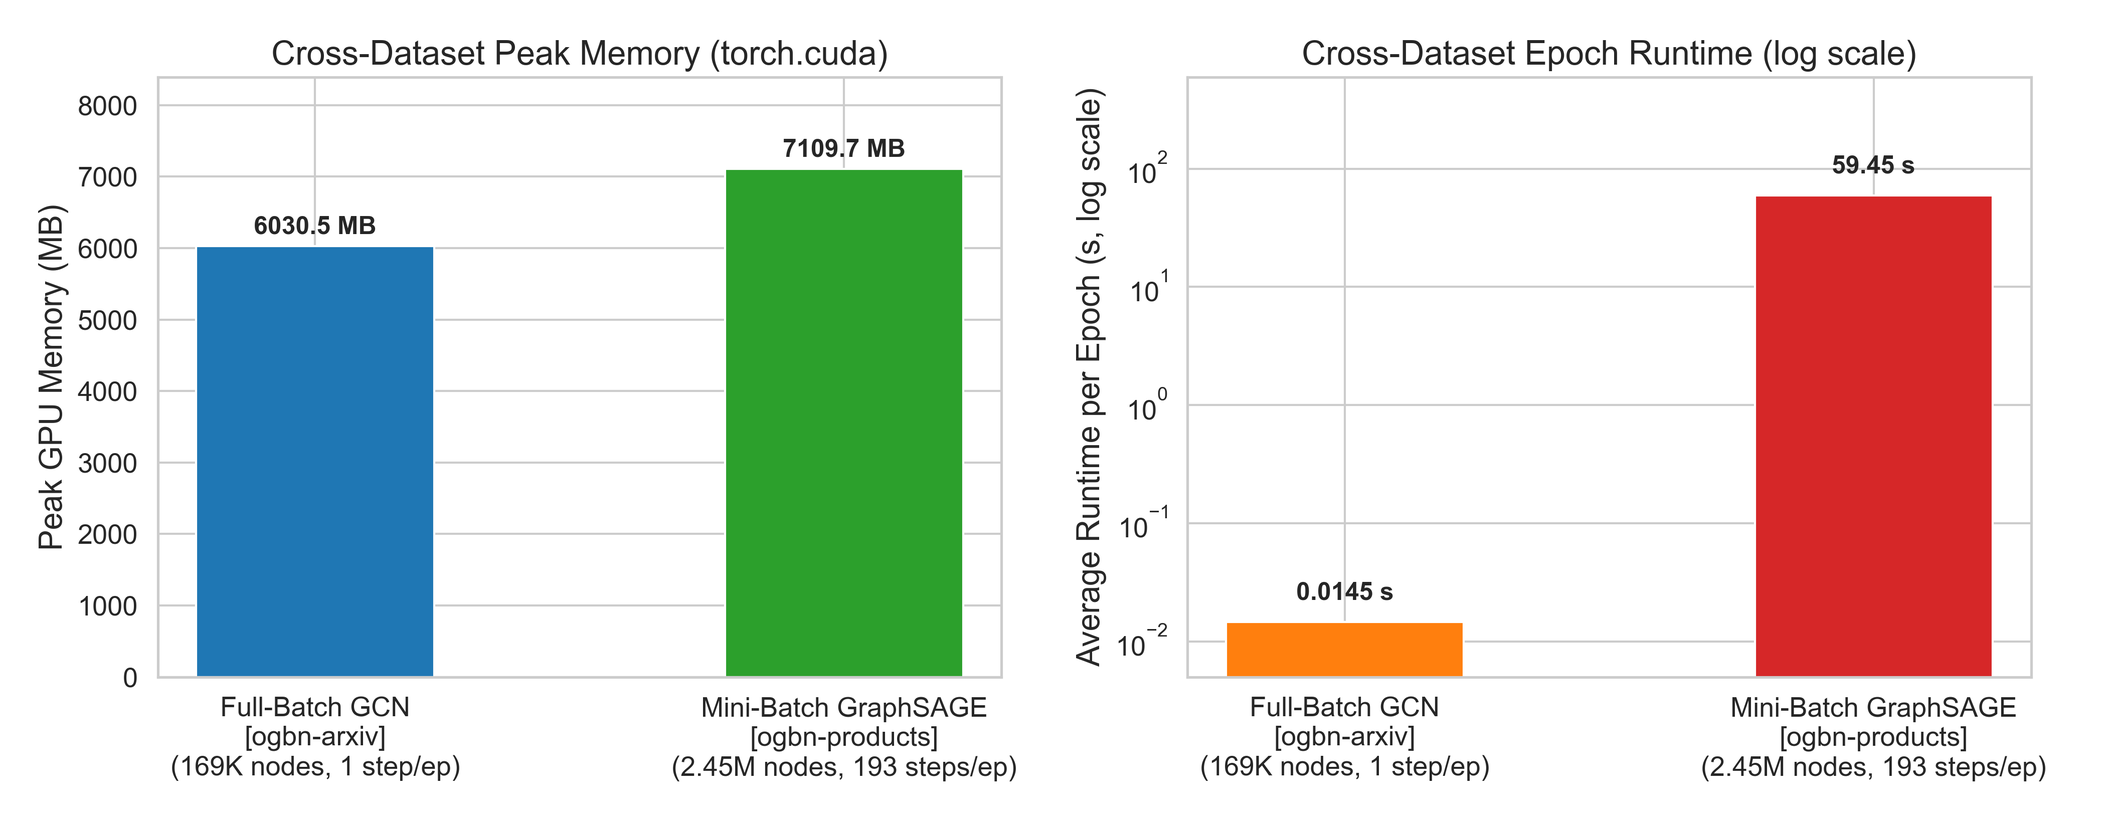
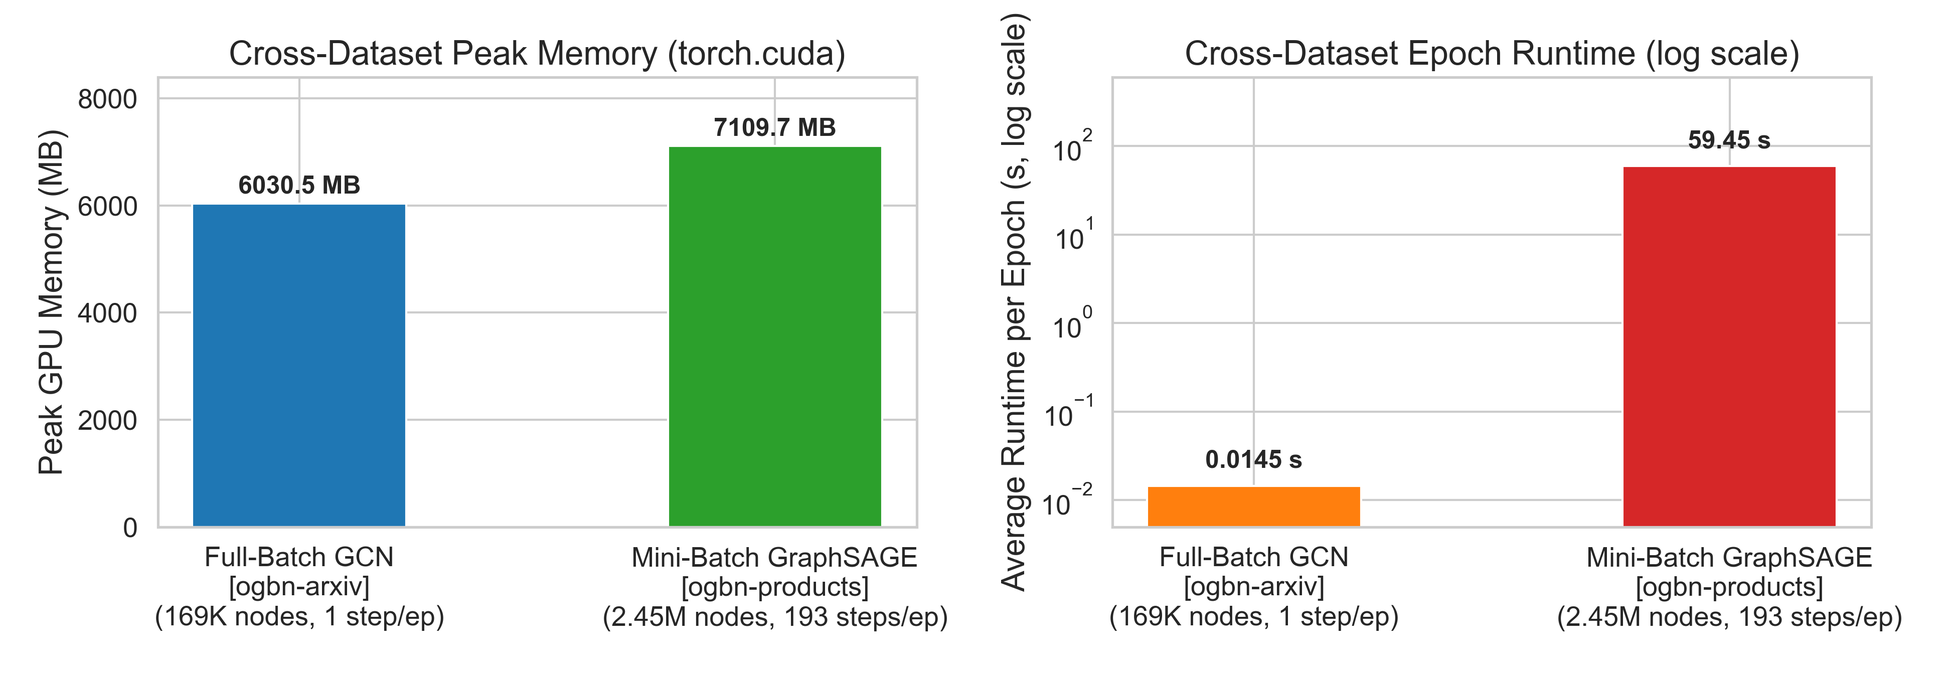
Refine baseline memory attribution, clarify GCN step timer, document sigma provenance, and tighten layout

diff --git a/report/report.tex b/report/report.tex
@@ -9,11 +9,14 @@
 \usepackage{subcaption}
 \usepackage{microtype}
 \captionsetup{skip=2pt, font=small}
-\setlength{\textfloatsep}{5pt plus 1pt minus 1pt}
-\setlength{\floatsep}{4pt plus 1pt minus 1pt}
-\setlength{\intextsep}{4pt plus 1pt minus 1pt}
+\setlength{\textfloatsep}{4pt plus 1pt minus 1pt}
+\setlength{\floatsep}{3pt plus 1pt minus 1pt}
+\setlength{\intextsep}{3pt plus 1pt minus 1pt}
 \setlength{\abovecaptionskip}{2pt}
 \setlength{\belowcaptionskip}{1pt}
+\setlength{\abovedisplayskip}{3pt}
+\setlength{\belowdisplayskip}{3pt}
+\renewcommand{\arraystretch}{0.92}
 
 \graphicspath{{plots/}{../results/plots/}{results/plots/}{./}}
 
@@ -87,7 +90,7 @@ LR $\eta = 0.050$ & 69.33 & 68.17 & 6030.5 & 0.0132 \\
 \end{figure}
 
 \paragraph{Impact of Model Depth ($L$):} 
-Increasing depth from $L=2$ to $L=3$ expands the receptive field to 3 hops, improving test accuracy by $1.22$ pp ($69.66\% \to 70.88\%$). This gain is $\approx 4.7\times$ the observed test standard deviation ($\sigma_{\text{test}} \approx 0.26$ pp), supporting the receptive-field expansion benefit. Selecting on validation accuracy, $L=4$ yields the highest value ($71.60\%$ val, $70.65\%$ test), marginally outperforming $L=3$ ($71.49\%$ val); the $0.11$ pp gap is comparable to the observed validation variation ($\sigma_{\text{val}} \approx 0.10$ pp) and consistent with run-to-run noise. In contrast, the drop from $L=4 \to L=6$ ($1.28$ pp val) exceeds the observed seed-to-seed std ($\approx 0.10$ pp) by an order of magnitude, suggesting genuine degradation rather than noise. We hypothesize that this performance drop stems from a combination of optimization challenges (such as gradient attenuation across deep stacks) and early oversmoothing. Specifically, the propagation rule (Equation~\ref{eq:gcn_layer}):
+Increasing depth from $L=2$ to $L=3$ expands the receptive field to 3 hops, improving test accuracy by $1.22$ pp ($69.66\% \to 70.88\%$). This gain is $\approx 4.7\times$ the observed test standard deviation ($\sigma_{\text{test}} \approx 0.26$ pp, measured across 5 100-epoch seeds), supporting the receptive-field expansion benefit. Selecting on validation accuracy, $L=4$ yields the highest value ($71.60\%$ val, $70.65\%$ test), marginally outperforming $L=3$ ($71.49\%$ val); the $0.11$ pp gap is comparable to the observed validation variation ($\sigma_{\text{val}} \approx 0.10$ pp from 5 100-epoch seeds) and consistent with run-to-run noise. In contrast, the drop from $L=4 \to L=6$ ($1.28$ pp val) exceeds the observed seed-to-seed std by an order of magnitude, suggesting genuine degradation rather than noise. We hypothesize that this performance drop stems from a combination of optimization challenges (such as gradient attenuation across deep stacks) and early oversmoothing. Specifically, the propagation rule (Equation~\ref{eq:gcn_layer}):
 \begin{equation}
 H^{(l+1)} = \sigma\left(\tilde{D}^{-\frac{1}{2}}\tilde{A}\tilde{D}^{-\frac{1}{2}} H^{(l)} W^{(l)}\right)
 \label{eq:gcn_layer}
@@ -202,28 +205,21 @@ On \texttt{ogbn-arxiv}, Table~\ref{tab:gcn_ablation} demonstrates that full-batc
 \begin{equation}
 \Delta M_{\text{layer}} \approx 585\text{ MB} \times 14.5 \approx 8.5\text{ GB per layer}
 \end{equation}
-For a 3-layer model, caching activations alone requires an estimated $\approx 25.5\text{ GB}$ (a lower bound: the slope excludes the unattributed baseline overhead of $\approx 4.3$ GB extrapolated to $L=0$ from Table~\ref{tab:gcn_ablation}, representing static graph tensors, Adam optimizer state tensors, and full-graph evaluation temporary buffers rather than CUDA driver runtime context, which \texttt{max\_memory\_allocated} does not track; note that if parts of this baseline scale with $|V|$, such as full-graph evaluation buffers, the $25.5$ GB estimate is a conservative lower bound, further reinforcing the OOM result). Adding the symmetrized \texttt{edge\_index} for 61.8M undirected edges ($123.7\text{M}$ directed pairs $\times 2$ rows $\times 8$ bytes $\approx 1.98\text{ GB}$) and intermediate aggregation buffers pushes the true requirement well beyond 30 GB. When executing full-batch GCN on \texttt{ogbn-products} on an NVIDIA Tesla T4 GPU (15.0 GB VRAM), PyTorch immediately halts with a \texttt{torch.cuda.OutOfMemoryError} (log in \texttt{results/oom\_log.txt} in the repository). In contrast, mini-batch GraphSAGE trains stably on the same GPU, consuming $7.1$ GB VRAM (and only $3.7$ GB under $[5,5,5]$).
+For a 3-layer model, caching activations alone requires an estimated $\approx 25.5\text{ GB}$ (a lower bound: the slope excludes an unattributed baseline offset of $\approx 4.3$ GB extrapolated to $L=0$ from Table~\ref{tab:gcn_ablation}, where static graph tensors and optimizer states account for only $\approx 100$ MB, with the remainder unattributed and likely representing full-graph evaluation temporary buffers and allocator pooling; note that \texttt{max\_memory\_allocated} does not include CUDA driver runtime context, and if evaluation buffers scale with $|V|$, the $25.5$ GB estimate is a conservative lower bound, further reinforcing the OOM result). Adding the symmetrized \texttt{edge\_index} for 61.8M undirected edges ($123.7\text{M}$ directed pairs $\times 2$ rows $\times 8$ bytes $\approx 1.98\text{ GB}$) and intermediate aggregation buffers pushes the true requirement well beyond 30 GB. When executing full-batch GCN on \texttt{ogbn-products} on an NVIDIA Tesla T4 GPU (15.0 GB VRAM), PyTorch immediately halts with a \texttt{torch.cuda.OutOfMemoryError} (log in \texttt{results/oom\_log.txt} in the repository). In contrast, mini-batch GraphSAGE trains stably on the same GPU, consuming $7.1$ GB VRAM (and only $3.7$ GB under $[5,5,5]$).
 
 \subsection{Theoretical Scalability Analysis: Resolving Neighborhood Explosion}
-The memory divergence arises from the receptive field expansion during backpropagation:
+The memory divergence arises from receptive field expansion during backpropagation.
 
 \paragraph{Full-Batch Activation Bottleneck:}
-Full-batch GCN computes layer activations globally: $H^{(l+1)} = \sigma(\tilde{A}_{\text{norm}} H^{(l)} W^{(l)})$. Exact gradient computation requires retaining all intermediate activation tensors $\{H^{(0)}, \dots, H^{(L)}\}$, imposing an $\mathcal{O}(L \cdot |V| \cdot d)$ memory footprint.
-
-Furthermore, naive node-wise mini-batching without sampling fails due to exponential receptive field growth. In real-world graphs exhibiting power-law degree distributions (average degree $d_{\text{avg}} = 2|E|/|V| \approx 50.5$, or $\approx 25.3$ undirected edge pairs per node on \texttt{ogbn-products}), an unconstrained $L$-hop receptive field expands exponentially. For $L=3$, the branching paths from a single seed expand as $(50.5)^3 \approx 1.28 \times 10^5$; across a mini-batch of $B = 1024$ seed nodes, the union of overlapping receptive fields can cover a large fraction of the active graph.
+Full-batch GCN computes layer activations globally: $H^{(l+1)} = \sigma(\tilde{A}_{\text{norm}} H^{(l)} W^{(l)})$. Exact gradient computation requires retaining all intermediate activation tensors $\{H^{(0)}, \dots, H^{(L)}\}$, imposing an $\mathcal{O}(L \cdot |V| \cdot d)$ memory footprint. Furthermore, naive node-wise mini-batching without sampling fails due to exponential receptive field growth: in power-law graphs with average degree $d_{\text{avg}} \approx 50.5$ ($\approx 25.3$ undirected pairs on \texttt{ogbn-products}), an unconstrained $L=3$ hop expansion yields $(50.5)^3 \approx 1.28 \times 10^5$ paths per seed, causing overlapping batch neighborhoods to rapidly encompass nearly the entire graph.
 
 \paragraph{Stochastic Neighborhood Sampling:}
-GraphSAGE restricts neighbor aggregation to a fixed sample budget $S_l$ at each hop $l \in \{1, \dots, L\}$. For a mini-batch of $B$ seed nodes, the outermost layer frontier is strictly bounded by:
-\begin{equation}
-|\mathcal{V}_L| \le B \cdot \prod_{l=1}^L S_l
-\label{eq:outer_frontier}
-\end{equation}
-while the total number of sampled nodes across all layers is bounded by $B \left(1 + \sum_{l=1}^L \prod_{i=1}^l S_i\right) = B(1 + S_1 + S_1 S_2 + \dots)$. This bounds per-step backpropagation activation memory to $\mathcal{O}\left(B \cdot d \cdot \sum_{l=1}^L \prod_{i=1}^l S_i\right)$, which is asymptotically dominated by the outermost frontier $\mathcal{O}(B \cdot d \cdot \prod_{l=1}^L S_l)$. While static node features and sampler indexing occupy a fixed GPU memory baseline ($\approx 980\text{ MB}$ for features in our setup, or CPU host memory in out-of-core pipelines), GPU activation memory during backpropagation is decoupled from total graph size $|V|$, enabling scalable representation learning on graphs of arbitrary magnitude.
+GraphSAGE restricts neighbor aggregation to a fixed sample budget $S_l$ at each hop $l \in \{1, \dots, L\}$. For a mini-batch of $B$ seed nodes, the outermost layer frontier is strictly bounded by $|\mathcal{V}_L| \le B \cdot \prod_{l=1}^L S_l$, while the total number of sampled nodes across all layers is bounded by $B \left(1 + \sum_{l=1}^L \prod_{i=1}^l S_i\right)$. This bounds per-step backpropagation activation memory to $\mathcal{O}\left(B \cdot d \cdot \sum_{l=1}^L \prod_{i=1}^l S_i\right)$, which is asymptotically dominated by the outermost frontier $\mathcal{O}(B \cdot d \cdot \prod_{l=1}^L S_l)$. While static node features and sampler indexing occupy a fixed memory baseline ($\approx 980\text{ MB}$ on GPU in our setup, or CPU host memory in out-of-core pipelines), GPU activation memory during backpropagation is decoupled from total graph size $|V|$, enabling scalable learning on arbitrarily large graphs.
 
 \section{Reproducibility \& Environment Details}
-Experiments were executed on an NVIDIA Tesla T4 GPU (15.0 GB VRAM, 2 vCPUs) with Python 3.11, PyTorch 2.11, PyG 2.4.0, and OGB 1.3.6 under fixed seed 42 across all single-run baselines and ablations, supplemented by seeds 42--46 for the GCN multi-seed evaluation in Section 1.2. GCN step times use \texttt{torch.cuda.synchronize()} on FP32 operations; GraphSAGE epoch times reflect sampling and training (excluding periodic evaluation passes). Multi-process loaders on 2 vCPUs introduce sampling bottlenecks due to CPU oversubscription. Complete code, reproduction scripts, and OOM logs are maintained in the GitHub repository (\url{https://github.com/vaishvi-code/CSC591-038-_hw2}).
+Experiments were executed on an NVIDIA Tesla T4 GPU (15.0 GB VRAM, 2 vCPUs) with Python 3.11, PyTorch 2.11, PyG 2.4.0, and OGB 1.3.6 under fixed seed 42 across all single-run baselines and ablations, supplemented by seeds 42--46 for the GCN multi-seed evaluation in Section 1.2. For GCN, the $14.5$ ms per-step time measures isolated kernel execution of the forward pass, backward pass, and optimizer step in FP32 with \texttt{torch.cuda.synchronize()} (averaged across 100 epochs, excluding evaluation). GraphSAGE epoch times reflect sampling and training (excluding periodic evaluation passes). Multi-process loaders on 2 vCPUs introduce sampling bottlenecks due to CPU oversubscription. Complete code, reproduction scripts, and OOM logs are maintained in the GitHub repository (\url{https://github.com/vaishvi-code/CSC591-038-_hw2}).
 
 \section{Conclusion}
-This study reproduced GCN and GraphSAGE on OGB benchmarks. On validation accuracy, $L=4$ and $\eta=0.005$ led the GCN ablation grid, while $S=[15,5,5]$ achieved the highest validation accuracy ($90.80\%$) and faster runtime ($37.3$s) for GraphSAGE, with $S=[15,10,5]$ offering highest test accuracy ($77.89\%$). For GCN, validation differences between mid-range configurations ($0.11$ pp for $L \in \{3,4\}$; $0.14$ pp for $\eta \in \{0.005, 0.01\}$) are modest ($< 0.2$ pp) and close to the baseline validation run-to-run variation ($\sigma_{\text{val}} \approx 0.10$ pp across 5 seeds). For GraphSAGE, validation accuracy between $B=512$ ($90.80\%$) and $B=1024$ ($90.77\%$) differs by only $0.03$ pp, though multi-seed replication would be needed to establish formal variance bounds on products. Profiling confirms that stochastic neighborhood sampling bounds the backpropagation frontier and resolves receptive field explosion, enabling scalable mini-batch training where full-batch GCN encounters out-of-memory limits.
+This study reproduced GCN and GraphSAGE on OGB benchmarks. On validation accuracy, $L=4$ and $\eta=0.005$ led the GCN ablation grid, while for GraphSAGE, $S=[15,5,5]$ achieved a marginally higher validation accuracy ($90.80\%$) at faster runtime ($37.3$s vs.\ $59.5$s for $[15,10,5]$), though the $0.03$ pp validation lead over $[15,10,5]$ ($90.77\%$) is practically indistinguishable, and $[15,10,5]$ provides the highest test accuracy ($77.89\%$). For GCN, validation gaps between mid-range configurations ($0.11$ pp for $L \in \{3,4\}$; $0.14$ pp for $\eta \in \{0.005, 0.01\}$) are modest ($< 0.2$ pp) and close to the baseline validation run-to-run variation ($\sigma_{\text{val}} \approx 0.10$ pp from 5 100-epoch baseline seeds). For GraphSAGE, validation accuracy between $B=512$ ($90.80\%$) and $B=1024$ ($90.77\%$) differs by only $0.03$ pp, though multi-seed replication would be needed to establish formal variance bounds on products. Profiling confirms that stochastic neighborhood sampling bounds the backpropagation frontier and resolves receptive field explosion, enabling scalable mini-batch training where full-batch GCN encounters out-of-memory limits.
 
 \end{document}

diff --git a/src/plot_results.py b/src/plot_results.py
@@ -234,7 +234,7 @@ def plot_comparative_profiling(metrics_dir, output_dir):
         sage_time = sage['avg_epoch_time_sec']
     epoch_times = [gcn['avg_epoch_time_sec'], sage_time]
 
-    fig, (ax1, ax2) = plt.subplots(1, 2, figsize=(14, 5.5))
+    fig, (ax1, ax2) = plt.subplots(1, 2, figsize=(13, 4.5))
 
     # Memory comparison
     bars1 = ax1.bar(models, peak_memory, color=['#1f77b4', '#2ca02c'], width=0.45)

diff --git a/report/FINAL_REPORT.md b/report/FINAL_REPORT.md
@@ -45,7 +45,7 @@ GCN exhibits rapid loss reduction during the initial 40 epochs (training loss de
 *Figure 2: GCN accuracy across model depths (left) and learning rates (right).*
 
 #### Discussion:
-- **Impact of Model Depth ($L$)**: Increasing depth from $L=2$ to $L=3$ expands the receptive field to 3 hops, improving test accuracy by $1.22$ pp ($69.66\% \to 70.88\%$). This gain is $\approx 4.7\times$ the observed test standard deviation ($\sigma_{\text{test}} \approx 0.26$ pp), supporting the receptive-field expansion benefit. Selecting on validation accuracy, $L=4$ yields the highest value ($71.60\%$ val, $70.65\%$ test), marginally outperforming $L=3$ ($71.49\%$ val); the $0.11$ pp gap is comparable to the observed validation variation ($\sigma_{\text{val}} \approx 0.10$ pp) and consistent with run-to-run noise. In contrast, the drop from $L=4 \to L=6$ ($1.28$ pp val) exceeds the observed seed-to-seed std ($\approx 0.10$ pp) by an order of magnitude, suggesting genuine degradation rather than noise. We hypothesize that this performance drop stems from a combination of optimization challenges (such as gradient attenuation across deep stacks) and early oversmoothing. Specifically, the propagation rule repeatedly averages representations over expanding neighborhoods, progressively smoothing node feature variance toward stationary eigenvectors proportional to $\sqrt{\tilde{d}_i}$. While batch normalization stabilizes layer activations against internal covariate shift, it may not fully counteract Dirichlet energy decay across distant hops. Peak allocated memory (`torch.cuda.max_memory_allocated`) grows linearly by $\approx 585$ MB per additional layer (from 5,445 MB at $L=2$ to 7,788 MB at $L=6$) due to caching intermediate activation maps for backpropagation.
+- **Impact of Model Depth ($L$)**: Increasing depth from $L=2$ to $L=3$ expands the receptive field to 3 hops, improving test accuracy by $1.22$ pp ($69.66\% \to 70.88\%$). This gain is $\approx 4.7\times$ the observed test standard deviation ($\sigma_{\text{test}} \approx 0.26$ pp, measured across 5 100-epoch seeds), supporting the receptive-field expansion benefit. Selecting on validation accuracy, $L=4$ yields the highest value ($71.60\%$ val, $70.65\%$ test), marginally outperforming $L=3$ ($71.49\%$ val); the $0.11$ pp gap is comparable to the observed validation variation ($\sigma_{\text{val}} \approx 0.10$ pp from 5 100-epoch seeds) and consistent with run-to-run noise. In contrast, the drop from $L=4 \to L=6$ ($1.28$ pp val) exceeds the observed seed-to-seed std by an order of magnitude, suggesting genuine degradation rather than noise. We hypothesize that this performance drop stems from a combination of optimization challenges (such as gradient attenuation across deep stacks) and early oversmoothing. Specifically, the propagation rule repeatedly averages representations over expanding neighborhoods, progressively smoothing node feature variance toward stationary eigenvectors proportional to $\sqrt{\tilde{d}_i}$. While batch normalization stabilizes layer activations against internal covariate shift, it may not fully counteract Dirichlet energy decay across distant hops. Peak allocated memory (`torch.cuda.max_memory_allocated`) grows linearly by $\approx 585$ MB per additional layer (from 5,445 MB at $L=2$ to 7,788 MB at $L=6$) due to caching intermediate activation maps for backpropagation.
 - **Impact of Learning Rate ($\eta$)**: A small learning rate ($\eta = 0.001$) converges slowly within 80 epochs ($68.91\%$ val), while an aggressive rate ($\eta = 0.05$) exhibits gradient variance and plateaus at $69.33\%$ val. The val-optimal setting is $\eta = 0.005$ ($71.63\%$ val); however, the test gap versus $\eta = 0.01$ is only $0.01$ pp ($70.87\%$ vs. $70.88\%$)---well below the empirical test noise threshold ($\sigma \approx 0.26$ pp). Small runtime variations ($0.013$--$0.015$s) reflect host scheduling noise.
 
 ---
@@ -119,7 +119,7 @@ Because the two paradigms operate on different benchmarks, the runtime per epoch
 ### 3.2 Hardware Scaling & Slope-Based Extrapolation
 On `ogbn-arxiv`, Table 1 demonstrates that full-batch GCN activation memory increases by $\approx 585$ MB per layer for 169K nodes. When scaling to `ogbn-products` ($2.45\text{M}$ nodes, a $14.5\times$ increase in $|V|$ at fixed hidden dimension $d = 256$), the activation memory slope scales proportionally with $|V|$:
 $$\Delta M_{\text{layer}} \approx 585\text{ MB} \times 14.5 \approx 8.5\text{ GB per layer}$$
-For a 3-layer model, caching activations alone requires an estimated $\approx 25.5\text{ GB}$ (a lower bound: the slope excludes the unattributed baseline overhead of $\approx 4.3$ GB extrapolated to $L=0$ from Table 1, representing static graph tensors, Adam optimizer state tensors, and full-graph evaluation temporary buffers rather than CUDA driver runtime context, which `max_memory_allocated` does not track; note that if parts of this baseline scale with $|V|$, such as full-graph evaluation buffers, the $25.5$ GB estimate is a conservative lower bound, further reinforcing the OOM result). Adding the symmetrized `edge_index` for 61.8M undirected edges ($123.7\text{M}$ directed pairs $\times 2$ rows $\times 8$ bytes $\approx 1.98\text{ GB}$) and intermediate aggregation buffers pushes the true requirement well beyond 30 GB. When executing full-batch GCN on `ogbn-products` on an NVIDIA Tesla T4 GPU (15.0 GB VRAM), PyTorch immediately halts with a `torch.cuda.OutOfMemoryError` (log in `results/oom_log.txt`). In contrast, mini-batch GraphSAGE trains stably on the same GPU, consuming $7.1$ GB VRAM (and only $3.7$ GB under $[5,5,5]$).
+For a 3-layer model, caching activations alone requires an estimated $\approx 25.5\text{ GB}$ (a lower bound: the slope excludes an unattributed baseline offset of $\approx 4.3$ GB extrapolated to $L=0$ from Table 1, where static graph tensors and optimizer states account for only $\approx 100$ MB, with the remainder unattributed and likely representing full-graph evaluation temporary buffers and allocator pooling; note that `max_memory_allocated` does not include CUDA driver runtime context, and if evaluation buffers scale with $|V|$, the $25.5$ GB estimate is a conservative lower bound, further reinforcing the OOM result). Adding the symmetrized `edge_index` for 61.8M undirected edges ($123.7\text{M}$ directed pairs $\times 2$ rows $\times 8$ bytes $\approx 1.98\text{ GB}$) and intermediate aggregation buffers pushes the true requirement well beyond 30 GB. When executing full-batch GCN on `ogbn-products` on an NVIDIA Tesla T4 GPU (15.0 GB VRAM), PyTorch immediately halts with a `torch.cuda.OutOfMemoryError` (log in `results/oom_log.txt`). In contrast, mini-batch GraphSAGE trains stably on the same GPU, consuming $7.1$ GB VRAM (and only $3.7$ GB under $[5,5,5]$).
 
 ---
 
@@ -139,9 +139,9 @@ while the total number of sampled nodes across all layers is bounded by $B \left
 ---
 
 ## 4. Reproducibility & Environment Details
-Experiments were executed on an NVIDIA Tesla T4 GPU (15.0 GB VRAM, 2 vCPUs) with Python 3.11, PyTorch 2.11, PyG 2.4.0, and OGB 1.3.6 under fixed seed 42 across all single-run baselines and ablations, supplemented by seeds 42--46 for the GCN multi-seed evaluation in Section 1.2. GCN step times use `torch.cuda.synchronize()` on FP32 operations; GraphSAGE epoch times reflect sampling and training (excluding periodic evaluation passes). Multi-process loaders on 2 vCPUs introduce sampling bottlenecks due to CPU oversubscription. Complete code, reproduction scripts, and OOM logs are maintained in the GitHub repository ([https://github.com/vaishvi-code/CSC591-038-_hw2](https://github.com/vaishvi-code/CSC591-038-_hw2)).
+Experiments were executed on an NVIDIA Tesla T4 GPU (15.0 GB VRAM, 2 vCPUs) with Python 3.11, PyTorch 2.11, PyG 2.4.0, and OGB 1.3.6 under fixed seed 42 across all single-run baselines and ablations, supplemented by seeds 42--46 for the GCN multi-seed evaluation in Section 1.2. For GCN, the $14.5$ ms per-step time measures isolated kernel execution of the forward pass, backward pass, and optimizer step in FP32 with `torch.cuda.synchronize()` (averaged across 100 epochs, excluding evaluation). GraphSAGE epoch times reflect sampling and training (excluding periodic evaluation passes). Multi-process loaders on 2 vCPUs introduce sampling bottlenecks due to CPU oversubscription. Complete code, reproduction scripts, and OOM logs are maintained in the GitHub repository ([https://github.com/vaishvi-code/CSC591-038-_hw2](https://github.com/vaishvi-code/CSC591-038-_hw2)).
 
 ---
 
 ## 5. Conclusion
-This study reproduced GCN and GraphSAGE on OGB benchmarks. On validation accuracy, $L=4$ and $\eta=0.005$ led the GCN ablation grid, while $S=[15,5,5]$ achieved the highest validation accuracy ($90.80\%$) and faster runtime ($37.3$s) for GraphSAGE, with $S=[15,10,5]$ offering highest test accuracy ($77.89\%$). For GCN, validation differences between mid-range configurations ($0.11$ pp for $L \in \{3,4\}$; $0.14$ pp for $\eta \in \{0.005, 0.01\}$) are modest ($< 0.2$ pp) and close to the baseline validation run-to-run variation ($\sigma_{\text{val}} \approx 0.10$ pp across 5 seeds). For GraphSAGE, validation accuracy between $B=512$ ($90.80\%$) and $B=1024$ ($90.77\%$) differs by only $0.03$ pp, though multi-seed replication would be needed to establish formal variance bounds on products. Profiling confirms that stochastic neighborhood sampling bounds the backpropagation frontier and resolves receptive field explosion, enabling scalable mini-batch training where full-batch GCN encounters out-of-memory limits.
+This study reproduced GCN and GraphSAGE on OGB benchmarks. On validation accuracy, $L=4$ and $\eta=0.005$ led the GCN ablation grid, while for GraphSAGE, $S=[15,5,5]$ achieved a marginally higher validation accuracy ($90.80\%$) at faster runtime ($37.3$s vs. $59.5$s for $[15,10,5]$), though the $0.03$ pp validation lead over $[15,10,5]$ ($90.77\%$) is practically indistinguishable, and $[15,10,5]$ provides the highest test accuracy ($77.89\%$). For GCN, validation differences between mid-range configurations ($0.11$ pp for $L \in \{3,4\}$; $0.14$ pp for $\eta \in \{0.005, 0.01\}$) are modest ($< 0.2$ pp) and close to the baseline validation run-to-run variation ($\sigma_{\text{val}} \approx 0.10$ pp from 5 100-epoch baseline seeds). For GraphSAGE, validation accuracy between $B=512$ ($90.80\%$) and $B=1024$ ($90.77\%$) differs by only $0.03$ pp, though multi-seed replication would be needed to establish formal variance bounds on products. Profiling confirms that stochastic neighborhood sampling bounds the backpropagation frontier and resolves receptive field explosion, enabling scalable mini-batch training where full-batch GCN encounters out-of-memory limits.
